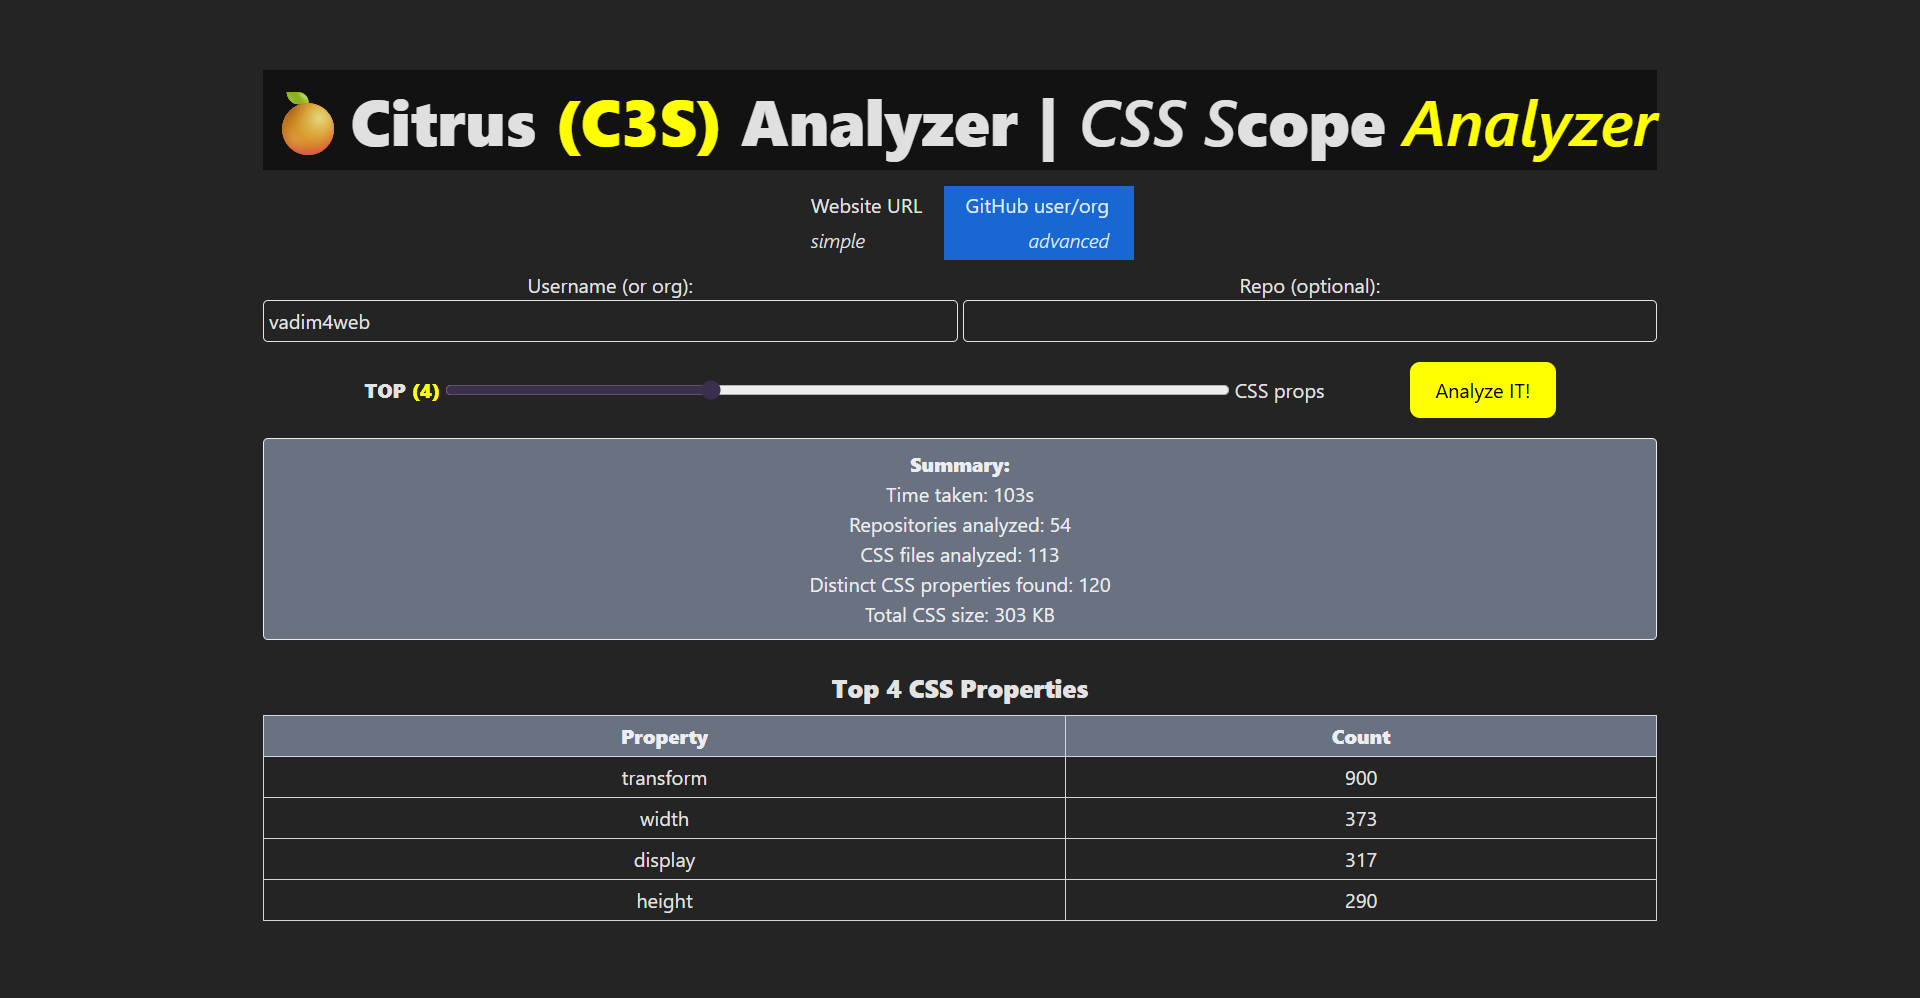
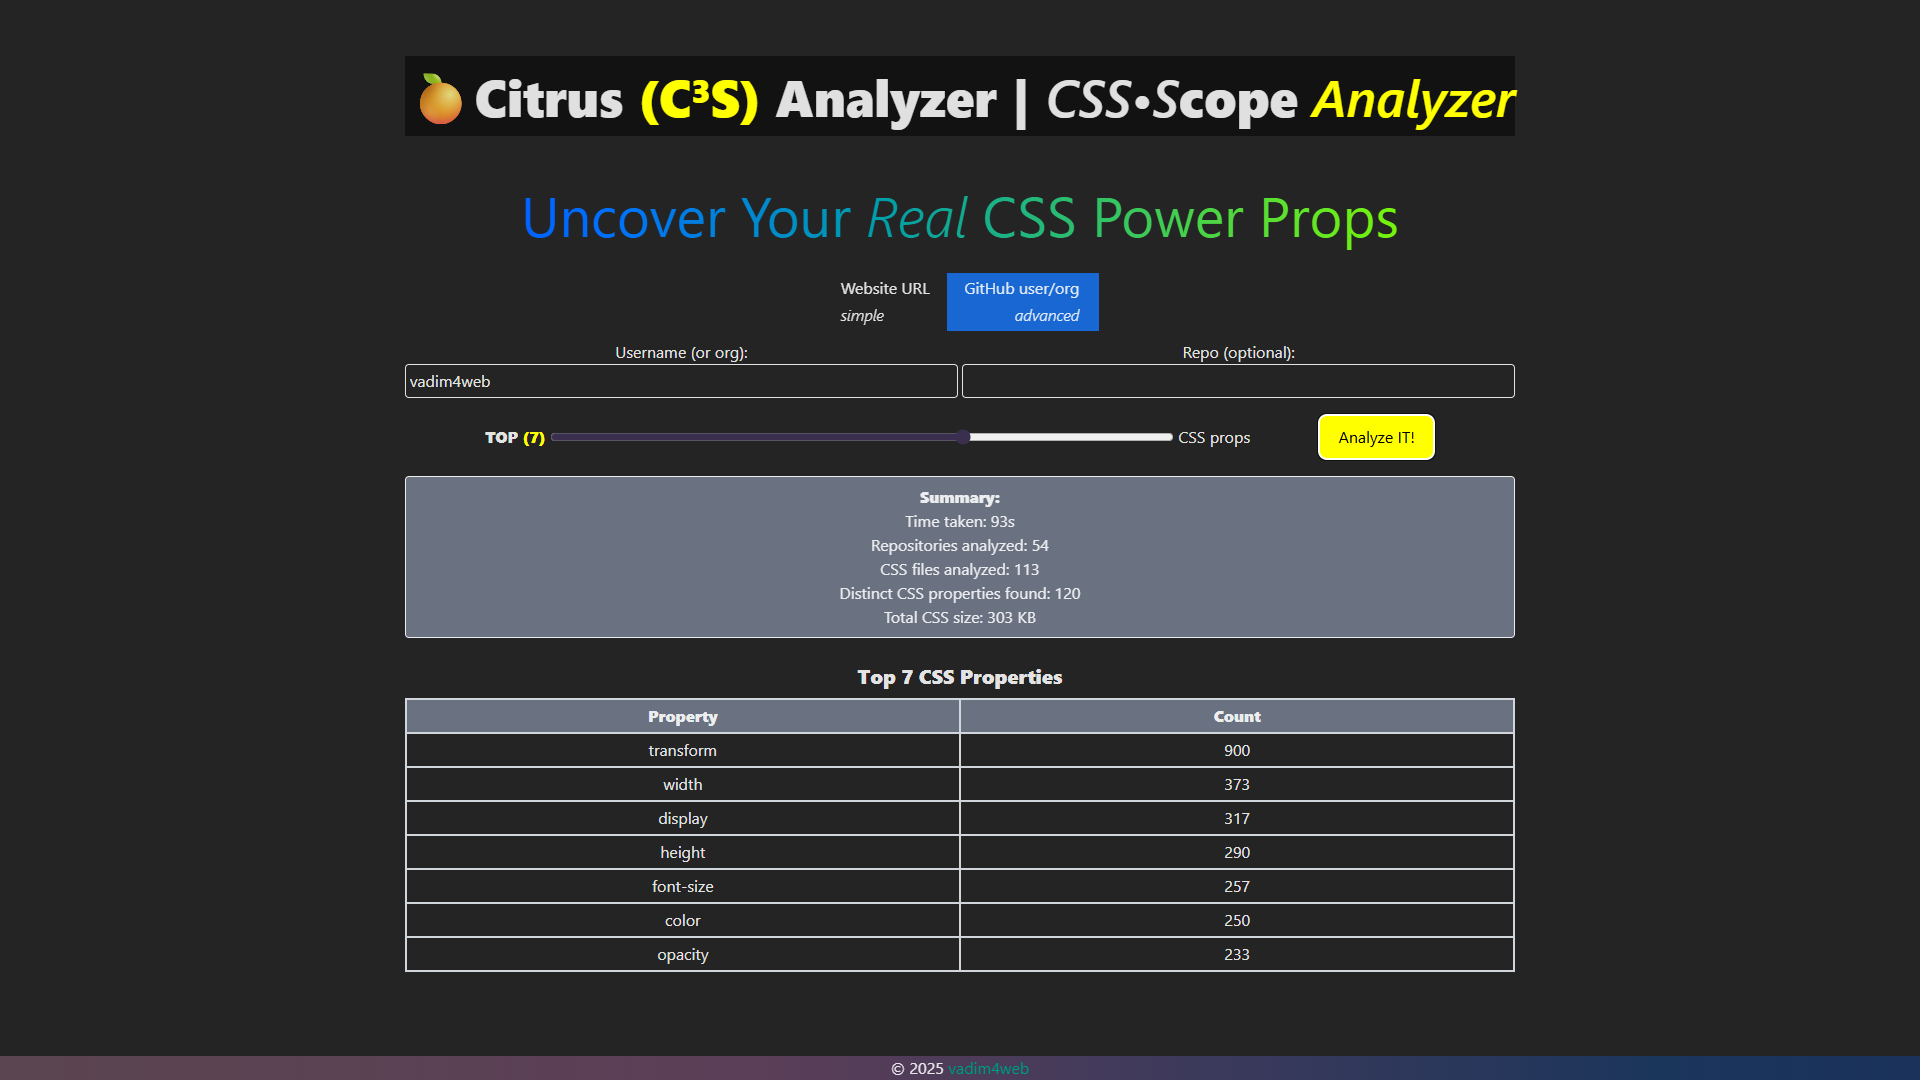
style all and add js dynamics

diff --git a/src/App.vue b/src/App.vue
@@ -1,9 +1,15 @@
 <template>
 	<div class="p-6">
 		<h1 class="cssscope text-2xl font-bold mb-4 py-3 leading-9">
-			🍊<strong>Citrus <span class="analyze">(C3S)</span> Analyzer</strong> |
-			<i>CSS S</i>cope <em class="analyze">Analyzer</em>
+			🍊<strong>Citrus <span class="analyze">(C³S)</span> Analyzer</strong> |
+			<i>CSS•S</i>cope <em class="analyze">Analyzer</em>
 		</h1>
+
+    <div id="moto-wrap">
+      <h2 id="moto" class="w-full my-5 text-[3.5rem]" >
+        Uncover Your <em>Real</em> CSS Power Props
+      </h2>
+    </div>
 
 		<div class="mb-10 mode">
 			<label
@@ -104,24 +110,27 @@
 				<tbody v-else>
 					<tr v-for="i in +topN" :key="i">
 						<td
-							class="border border-gray-300 px-2 py-1 relative after:absolute after:content-['-'] after:right-0"
+							class="border border-gray-300 px-2 py-1"
 						>
 							{{ i }}
 						</td>
 						<td
-							class="border border-gray-300 px-2 py-1 relative before:absolute before:content-['-'] before:left-0"
+							class="border border-gray-300 px-2 py-1"
 						>
-							null
+							{{ randomItems[i - 1] }}
 						</td>
 					</tr>
 				</tbody>
 			</table>
 		</div>
 	</div>
+  <footer class="fixed bottom-0 left-0 right-0">
+    © {{ new Date().getFullYear() }} <a href="http://github.com/vadim4web" target="_blank" rel="noopener noreferrer">vadim4web</a>
+  </footer>
 </template>
 
 <script setup>
-import { ref, watch } from 'vue'
+import { ref, watch, onMounted } from 'vue'
 
 // -------------------------
 // Reactive state
@@ -136,24 +145,12 @@ const loading = ref(false)
 const summary = ref(null)
 const currentStatus = ref('')
 const elapsed = ref(0) // ⏱ elapsed timer
-let timerId = null
+let timerId, setupRandomId = null
 let allResults = [] // Global RAM storage
 
 const corsProxy = 'https://api.allorigins.win/raw?url='
 // const apiURL = 'http://localhost:3000/api'
 const apiURL = 'https://citrus-api.onrender.com/api'
-
-// Start/stop elapsed timer
-function startTimer() {
-	elapsed.value = 0
-	timerId = setInterval(() => {
-		elapsed.value++
-	}, 1000)
-}
-function stopTimer() {
-	clearInterval(timerId)
-	timerId = null
-}
 
 // -------------------------
 // Standard CSS properties
@@ -558,6 +555,32 @@ const standardProps = new Set([
 	'zoom',
 ])
 
+const props = Array.from(standardProps)
+const randomIdx = arr => Math.floor(Math.random() * arr.length)
+const randomItem = arr => arr[randomIdx(arr)]
+const randomItems = ref(new Array(+topN.value).fill(null).map(el => randomItem(props)))
+
+function setupRandom() {
+	setupRandomId = setInterval(() => {
+    randomItems.value[randomIdx(randomItems.value)] = randomItem(props)
+	}, 500)
+}
+
+onMounted(() => setupRandom())
+
+// Start/stop elapsed timer
+function startTimer() {
+  elapsed.value = 0
+	timerId = setInterval(() => {
+    elapsed.value++
+	}, 1000)
+}
+function stopTimer() {
+  clearInterval(setupRandomId)
+	clearInterval(timerId)
+	timerId = null
+}
+
 // -------------------------
 // Restore last inputs from localStorage
 // -------------------------
@@ -591,6 +614,7 @@ watch(
 // -------------------------
 watch(topN, val => {
 	if (allResults.length) results.value = allResults.slice(0, val)
+  randomItems.value = new Array(+topN.value).fill(null).map(el => randomItem(props))
 })
 
 function updateResults(totalCounts) {

diff --git a/src/style.css b/src/style.css
@@ -22,6 +22,7 @@ a {
   color: #646cff;
   text-decoration: inherit;
 }
+
 a:hover {
   color: #535bf2;
 }
@@ -92,6 +93,35 @@ button:focus-visible {
   top: 0;
   background-color: Highlight;
   z-index: -1;
+}
+
+@keyframes rotateHue {
+  from { filter: hue-rotate(0deg); }
+  to   { filter: hue-rotate(360deg); }
+}
+
+#moto {
+  background: linear-gradient(90deg, magenta, cyan);
+  -webkit-text-fill-color: transparent;
+  color: transparent;
+  background-clip: text;
+  -webkit-background-clip: text;
+}
+
+#moto-wrap {
+  display: inline-block; /* shrink-wrap text */
+  animation: rotateHue 5s linear infinite;
+}
+
+table tr {
+  display: grid;
+  grid-template-columns: repeat(2, 1fr);
+}
+
+footer {
+  background: linear-gradient(90deg, #ffff0040, #ff00ff40);
+  animation: rotateHue 5s linear reverse infinite;
+  -webkit-animation: rotateHue 5s linear reverse infinite;
 }
 
 #app {
